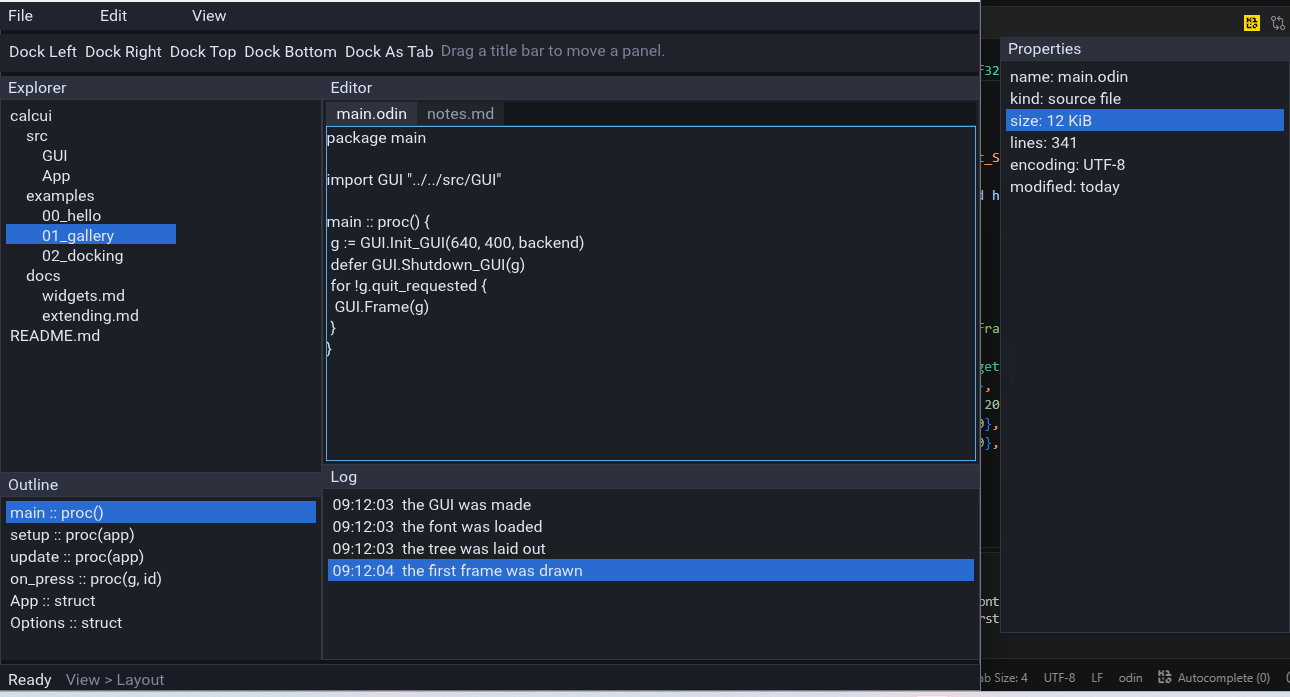
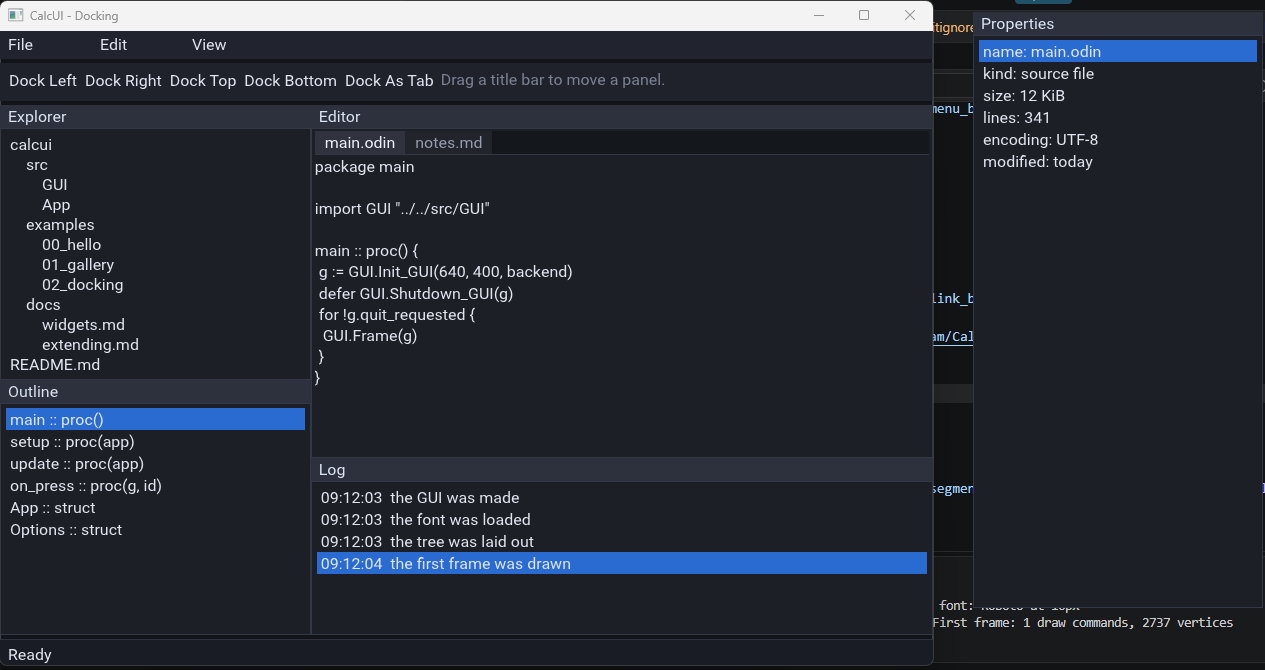
.

Changed region(s): [[0.0, 0.0, 1.0, 1.0], [0.2466, 0.2985, 0.4625, 0.5672], [0.2158, 0.9254, 0.2775, 0.9552]]

diff --git a/README.md b/README.md
@@ -5,6 +5,8 @@
 [![Language](https://img.shields.io/badge/language-Odin-orange)](https://odin-lang.org/)
 [![Sponsor](https://img.shields.io/badge/Sponsor-GitHub%20Sponsors-pink?logo=github-sponsors)](https://github.com/sponsors/armscream)
 
+## VERY WORK IN PROGRESS
+
 CalcUI is a retained-mode GUI toolkit written in [Odin](https://odin-lang.org/), built around SDL3 and the [Runa](src/GUI/dependencies/Runa) text engine.
 
 It uses a persistent widget tree with independent widget identities and state. Layout, rendering and input are handled by the toolkit, with support for custom widgets, dockable panels, multiple windows and scene-based interfaces.
